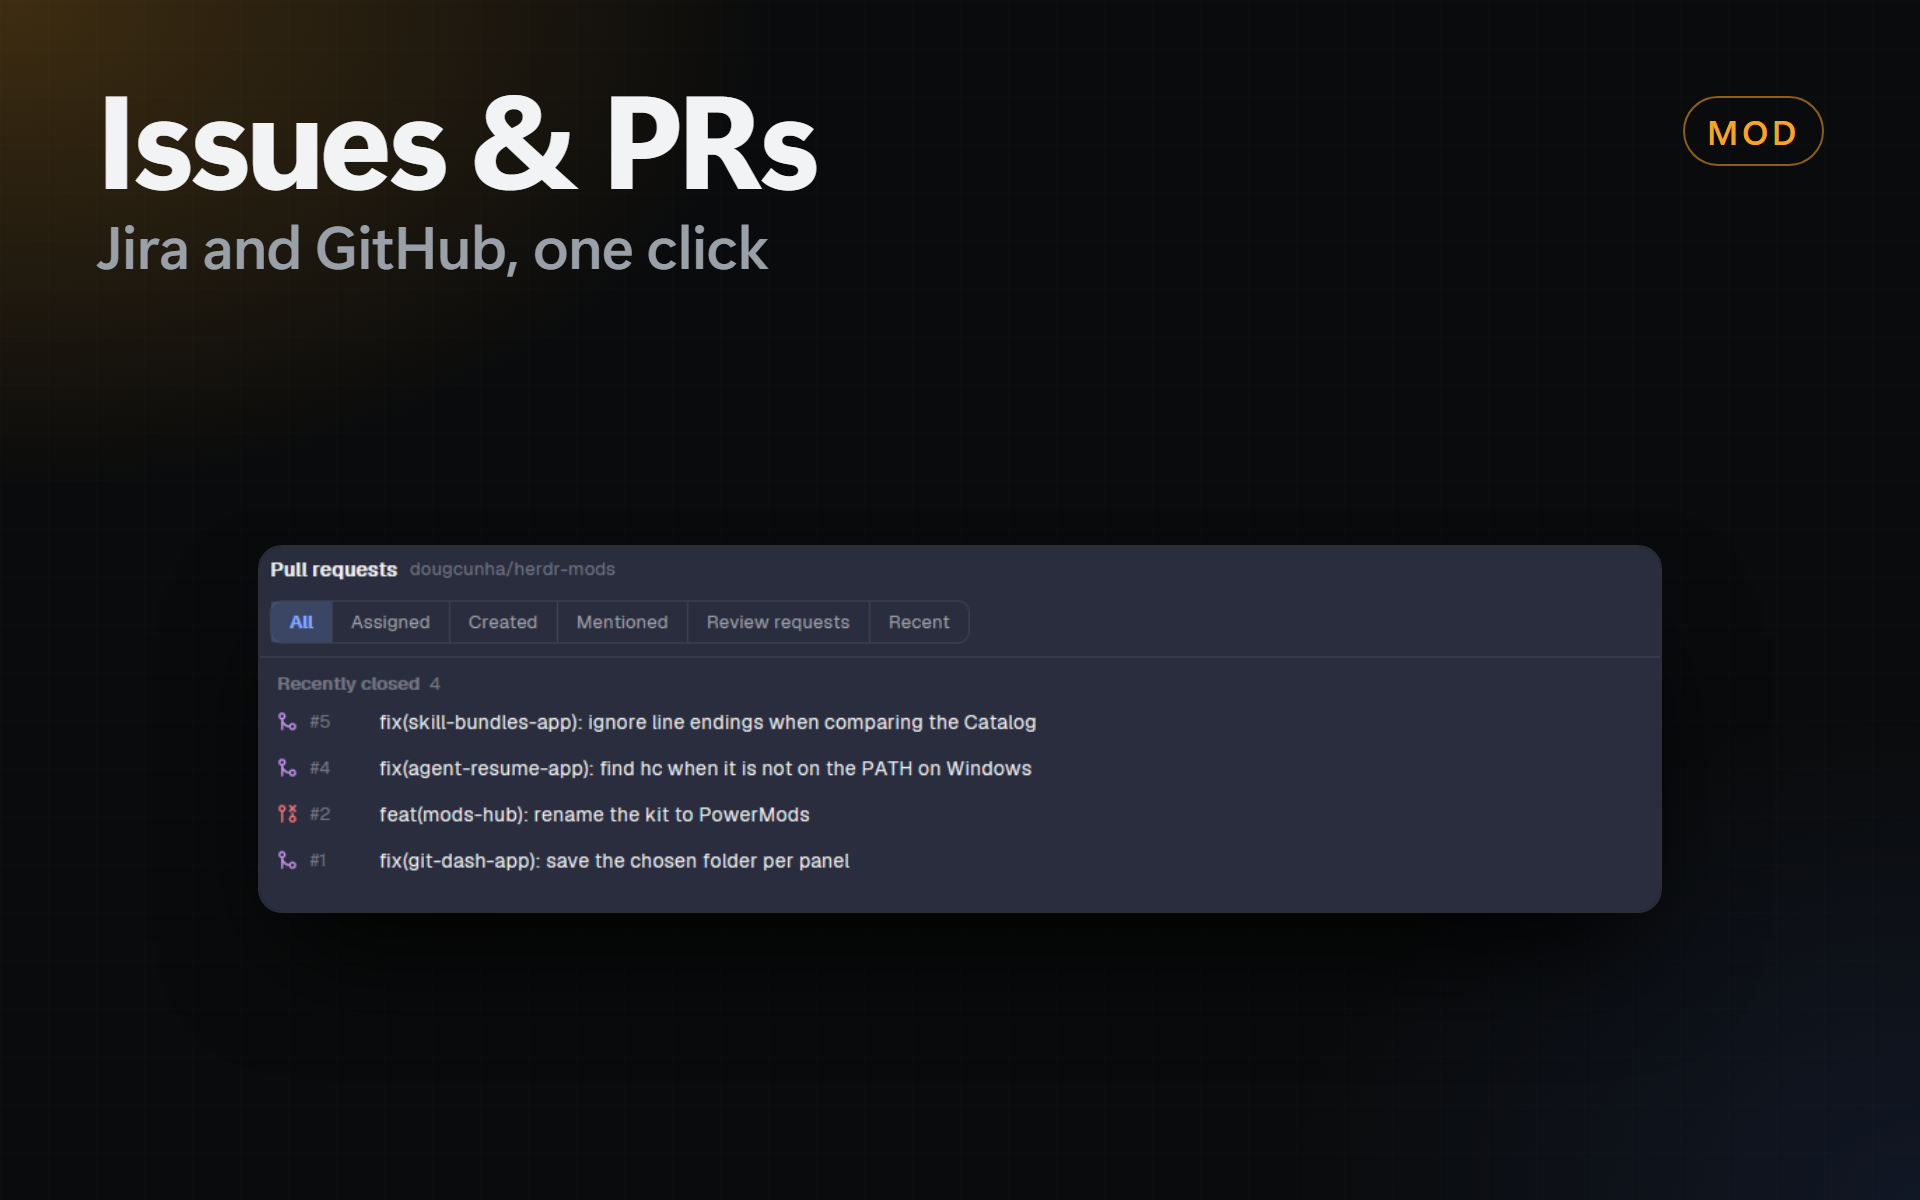
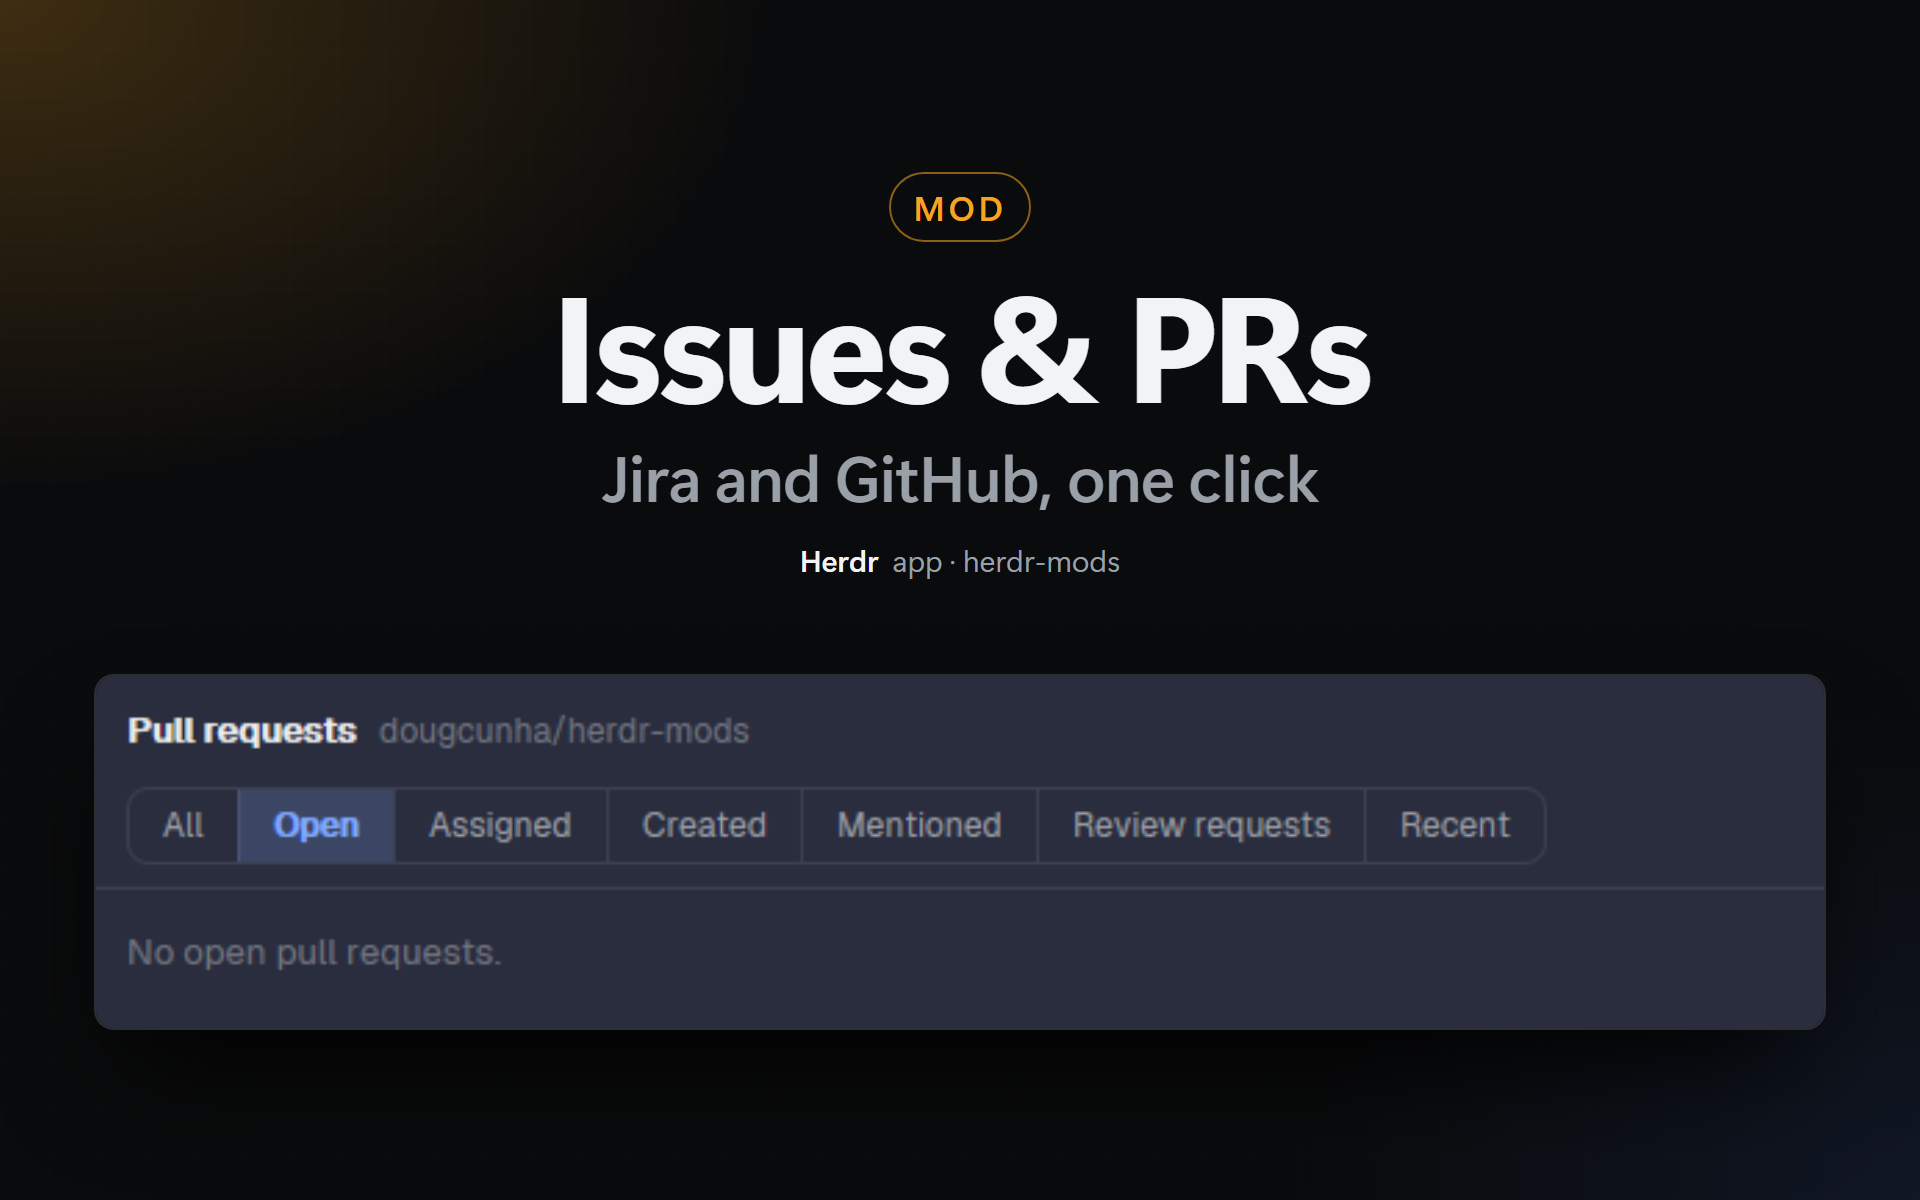
feat(issues-app): show open pull requests by default

diff --git a/issues-app/mods/prs/main.js b/issues-app/mods/prs/main.js
@@ -15,7 +15,6 @@ import { kit, PAGE_WIDE } from "./page-kit.js";
 import { LinkDialog } from "./link-dialog.js";
 import { AgentDialog, PromptsDialog } from "./agent-dialog.js";
 import { RowMenu, rowAction } from "./row-menu.js";
-import { chip } from "./links.js";
 import { context, activeSpace, openLinkDialog, openSettings, settingsMenu, PAGE, asSplit, pageMode, openPageDialog, pageDialog, splitView, drawn, openAgentDialog, writeIcons, icon, issueKind as issueKindOf, kindColor, avatar, segmented, fs, readSizes, openUrl, agentSpaces, agentChip, mostUrgent, liveAgent, AGENT_STATUS, goToSpace, migrateSettings, loadAvatars, avatarPics, inDockDialog, iconButton, button } from "./links.js";
 
 // The mods-hub can turn this mod off (shared "herdr-mods.disabled", a list of mod names). Then the mod draws
@@ -50,9 +49,6 @@ const keepWidth = (w) => { try { localStorage.setItem(`width:${place()}`, String
 const contextKey = (space) => `${space?.id}|${JSON.stringify(shared("space-links") ?? {})}`;
 // What a space's list keeps in memory (the last SPACES spaces), so switching back shows it at once.
 const SPACES = 20;
-// Hide merged (a chip next to the filters, and a setting of PowerMods): merged pull requests leave the list.
-const HIDE_MERGED = "prs.hideMerged";
-const hideMerged = () => shared(HIDE_MERGED) === true;
 // The Details card of a page, collapsed or expanded: the same in every copy (UI state).
 const detailsOpen = () => shared("prs.detailsOpen") !== false;
 // Agent review from a row's menu (row-menu.js) comes back to the list that opened it.
@@ -88,7 +84,7 @@ export default class PullRequests extends View {
     this.uid = `${Date.now()}-${Math.random().toString(36).slice(2)}`;
     this.seenAction = shared(ROW_ACTION)?.at ?? 0;
     this.prs = []; this.login = null; this.error = null; this.loading = false;
-    this.query = ""; this.filter = null; this.mentions = null; this.mentionsVersion = 0; this.open = null; this.page = null; this.pageError = null; this.width = lastWidth(); this.version = 0;
+    this.query = ""; this.filter = "open"; this.mentions = null; this.mentionsVersion = 0; this.open = null; this.page = null; this.pageError = null; this.width = lastWidth(); this.version = 0;
     this.gen = 0; this.data = new Map(); this.hay = new Map(); this.stacks = []; this.inStack = new Map(); this.collapsed = new Set(); this.saved = null; this.versions = 0; this.kept = new Map();
     this.handle = cx.focus_handle();
     cx.spawn(async (cx) => { await writeIcons(); cx.notify(); });
@@ -252,7 +248,7 @@ export default class PullRequests extends View {
   // (asked of me directly) and Recent activity (updated in the last 7 days). None: all.
   keep(p) {
     const me = this.login;
-    if (p.state === "MERGED" && hideMerged()) return false;
+    if (this.filter === "open") return p.state === "OPEN";
     if (this.filter === "created") return p.author?.login === me;
     if (this.filter === "assigned") return (p.assignees ?? []).includes(me);
     if (this.filter === "mentioned") return Boolean(this.mentions?.has(p.number));
@@ -342,7 +338,7 @@ export default class PullRequests extends View {
   // change (agents, focus), so a render must stay cheap.
   items() {
     const branch = this.space()?.branch ?? "";
-    const k = `${this.version}|${this.query}|${this.filter}|${hideMerged()}|${this.mentionsVersion}|${branch}|${[...this.collapsed].join(",")}`;
+    const k = `${this.version}|${this.query}|${this.filter}|${this.mentionsVersion}|${branch}|${[...this.collapsed].join(",")}`;
     if (this.cache?.k !== k) {
       const ws = words(this.query);
       const shown = this.prs.filter((p) => matches(this.hay.get(p.number), ws) && this.keep(p));
@@ -632,12 +628,12 @@ export default class PullRequests extends View {
     const t = theme(), overlay = props()?.overlay, dock = inDockDialog();
     const { items } = this.items(), wide = this.width >= WIDE;
     const toggle = (id, label, _on, flip) => button(t, id, label, (cx) => { flip(cx); cx.notify(); });
-    const empty = this.error || (this.loading ? "Loading pull requests…" : this.prs.length ? (this.filter === "mentioned" && this.mentionsLoading ? "Loading…" : "Nothing matches.") : "No open pull requests.");
-    const filters = h_flex().gap(8).items_center().flex_wrap().child(segmented("filter", [["assigned", "Assigned"], ["created", "Created"], ["mentioned", "Mentioned"], ["review", "Review requests"], ["recent", "Recent"]], this.filter, (id, cx) => {
+    const hasPRs = this.filter === "open" ? this.prs.some((pr) => pr.state === "OPEN") : this.prs.length > 0;
+    const empty = this.error || (this.loading ? "Loading pull requests…" : hasPRs ? (this.filter === "mentioned" && this.mentionsLoading ? "Loading…" : "Nothing matches.") : this.filter === "open" ? "No open pull requests." : "No pull requests.");
+    const filters = segmented("filter", [["open", "Open"], ["assigned", "Assigned"], ["created", "Created"], ["mentioned", "Mentioned"], ["review", "Review requests"], ["recent", "Recent"]], this.filter, (id, cx) => {
       this.filter = id;
       if (this.filter === "mentioned" && !this.mentions && !this.mentionsLoading) this.loadMentions(cx);
-    }, t))
-      .child(chip(t, "hide-merged", "Hide merged", hideMerged(), (cx) => { setShared(HIDE_MERGED, !hideMerged()); cx.notify(); }));
+    }, t);
     const heading = (g) => h_flex().h(fs.head).flex_none().px(10).gap(6).items_end().text_size(fs.meta).text_color(t.dim)
       .child(div().font_semibold().child(g.label)).child(div().child(g.count));
     const s = { t, two: this.width < ROOMY, keys: this.keys, cursor: this.cursor, agents: agentSpaces(this.where?.repo?.main).prs };

diff --git a/issues-app/RECIPE.md b/issues-app/RECIPE.md
@@ -18,7 +18,7 @@ Build the mods from the recipes below, with these changes:
 - The issue page (`detail` in `main.js`, parts in `page-kit.js`): chips under the title (`k.chip`: type, priority, story points, sprint, due date; a high priority, the active sprint and a near or past due date in color), tabs (`k.tabs`: Description, a tab per long extra field, Activity with the timeline and the comment box; `this.pageTab` stays while the issues change), and a **Details** card (`k.facts`, a side entry `["full", element]` that takes the whole width on a narrow page). `metaFields(site)` in `jira.js` finds the Sprint field (`com.pyxis.greenhopper.jira:gh-sprint`) and the story points fields (`Story Points`, `Story point estimate`) in the field list; `issue()` also asks for `fixVersions`, `versions`, `components`, `duedate` and `resolution`, and `fetchPage` keeps them in `page.meta`. `sprintOf` picks the active sprint, else the next, else the last.
 - Jira pictures: `issue()` lists `page.people` (assignee, reporter, comment and change authors, with `avatarUrls["48x48"]`), and the list keeps the assignee's URL. `loadPeople` in `links.js` downloads only the public hosts (`*.atl-paas.net`, `secure.gravatar.com`) with `curl`, no sign-in, to `data/issues-app/avatars/jira-<accountId>.png`, once per session; `avatar(name)` then shows the picture.
 - Copy key: `pageLayout` takes `copy(cx)` and draws a copy `iconButton` after the key (issues only). A right-click on a row opens `row-menu.js` (a popup of the mod, props `{ dialog: "row", to, key, site, status, url, copy, jira, agent }`, rows of the kit menus, ↑ ↓ Enter Esc): Move opens the Move menu, Open and Copy key run in the popup, and Start agent sets `shared("issues.rowAction")` `{ to, key, action, at }`; only the list copy whose id is `to` (`this.uid`) runs `dispatch`, after `fetchPage` when it has no page of that issue.
-- The pull request page (`detail.js`) follows the issue page: chips (`k.chip`) for review decision, checks, merge state and size, a Description tab first (`descriptionTab`, keys 1 to 4, the default tab), a collapsible Details card (`k.facts` with `a.fold`, `shared("prs.detailsOpen")`) in place of the Reviewers, Assignees, Labels and Changes sections, and `copy` (`owner/repo#number`) after the key. `row-menu.js` is shared and generic (props `mod`, `open`, `copyLabel`, `branch`, `agent` as a label); the prs list opens it with Open on GitHub, Agent review, Copy number and Copy branch, and Agent review comes back through `shared("prs.rowAction")`. **Hide merged**: `shared("prs.hideMerged")` (a chip next to the filters and a bool setting of `kit.json`) drops `state: MERGED` in `keep()`, and is part of the `items()` cache key.
+- The pull request page (`detail.js`) follows the issue page: chips (`k.chip`) for review decision, checks, merge state and size, a Description tab first (`descriptionTab`, keys 1 to 4, the default tab), a collapsible Details card (`k.facts` with `a.fold`, `shared("prs.detailsOpen")`) in place of the Reviewers, Assignees, Labels and Changes sections, and `copy` (`owner/repo#number`) after the key. `row-menu.js` is shared and generic (props `mod`, `open`, `copyLabel`, `branch`, `agent` as a label); the prs list opens it with Open on GitHub, Agent review, Copy number and Copy branch, and Agent review comes back through `shared("prs.rowAction")`.
 - No key hints on buttons (`⌘↵`, `O`): the keys still work, and the page footers list them.
 - Start agent of an issue has **Where**: New worktree (as in the recipe) or Open space · new tab (`tab.new { space, name, argv, task }` in a space of the same machine, picked from chips with its name and branch; `{branch}` is that space's branch; nothing in git). Pull requests always use a worktree. The dialog shows the repository (main checkout and its branch). For an issue in a New worktree it is a **Repository** row ("this space" or "chosen" tag, **Change…**, **Use this space's**): **Change…** opens a filter input and a list of `shared("repo-launcher.cache").repos` of the same machine (the space's repository first, then favorites and recent ones from `repo-launcher.settings`, then by name; 7 rows visible, 50 at most; Enter picks the first one, Esc closes the list). `loadRepo` reads the main checkout, its `.herdr/prompts.md`, its branch and the home folder again; Start agent waits until it ends. Pull requests have no choice. The Default chips of Model and Effort show the agent's value (`agentDefaults`: Claude Code `~/.claude/settings.json` `model` and `effortLevel`, else the account default and the model's default effort; Codex `~/.codex/config.toml` top-level `model` and `model_reasoning_effort`).
 - The agents of Start agent come from `shared("issues.agents")` (`{ [machine or "local"]: { list, checkedAt } }`), else from the repo-launcher's `shared("repo-launcher.agents")` for this computer, so the dialog shows them at once. Only an empty list, or ↻ next to **Agent**, calls `knownAgents()` (it starts a shell). Each agent card shows the provider's icon on its tile (`programTile` in `links.js`, as in the repo-launcher).
@@ -148,7 +148,7 @@ GitHub pull requests for each Herdr space, grouped by what they wait on, with a 
 ### What you see
 
 - **Header:** "Pull requests", the repository in `dim`, " · Refreshing…" while a refresh runs over the shown list, ↻ (Herdr's spinner while loading), a cog, and × when open as a window. At 720px and wider the 220px search field sits in this row; narrower, it gets its own row.
-- **Filters:** one segmented control: **All**, **Assigned**, **Created**, **Mentioned**, **Review requests**, **Recent**.
+- **Filters:** one segmented control: **All**, **Open** (default), **Assigned**, **Created**, **Mentioned**, **Review requests**, **Recent**.
 - **List:** groups with a count: Review requested, Yours to fix, Ready to merge, Open, Recently closed (the last 10). One 30px row per pull request:
   - a state icon: open (green), draft (`dim`, with a `muted` title), merged (purple), closed (red);
   - `#number` in `dim`, the title;

diff --git a/issues-app/README.md b/issues-app/README.md
@@ -50,7 +50,7 @@ The mod finds the Sprint and the story points fields (`Story Points` or `Story p
 - **Under the title:** the state, and for an open pull request chips for the review (approved, changes requested, review required), the checks (failing, running, passed), the merge state (conflicts, behind the base, ready to merge) and the size (+/−). A copy button copies `owner/repo#number`.
 - **Tabs:** **Description**, **Conversation** (comments, reviews, events and the merge box), **Checks** and **Files**. Keys 1 to 4.
 - **Details:** the author, the reviewers with their verdict, the assignees, the labels, the branches (with a copy button), the changes, the commits and the dates. A click on **Details** collapses or expands it.
-- **The list:** a right-click on a pull request opens a menu with **Open on GitHub**, **Agent review** (an open pull request, when the space has a git repository), **Copy number** and **Copy branch**. The **Hide merged** chip next to the filters leaves the merged pull requests out; it is also a setting in PowerMods → Settings → Pull Requests.
+- **The list:** a right-click on a pull request opens a menu with **Open on GitHub**, **Agent review** (an open pull request, when the space has a git repository), **Copy number** and **Copy branch**. **Open** is selected by default and includes drafts. Select **All** to also see recently closed and merged pull requests.
 
 ## Default Jira project
 

diff --git a/AGENTS.md b/AGENTS.md
@@ -29,7 +29,7 @@ or a theme, increase `N` by 1 in the same commit. Keep the
 `<!-- prompt-start -->` and `<!-- prompt-end -->` markers around the prompt:
 the mod sends only the text between them to the agent.
 
-When the person asks to update the local version, edit
+After every mod change, update the installed version by editing
 `~/.config/herdr-app/data/herdr-mods-setup.json`: set `version` to the new `N`,
 `commit` to the pushed commit and `date` to now. Set `files.<mod>` of each
 changed mod to the output of `node tools/record-hashes.mjs`. Copy the changed

diff --git a/SETUP-PROMPT.md b/SETUP-PROMPT.md
@@ -1,4 +1,4 @@
-<!-- herdr-mods-setup-version: 103 -->
+<!-- herdr-mods-setup-version: 104 -->
 # Set up or update my Herdr mods
 
 The first line of this file holds the version of the prompt. The `mods-hub`

diff --git a/whats-new/104.md b/whats-new/104.md
@@ -1,0 +1,1 @@
+- **Pull Requests:** Open is selected by default and includes drafts. Use All to also see recently closed and merged pull requests. The Hide merged switch has been removed.
